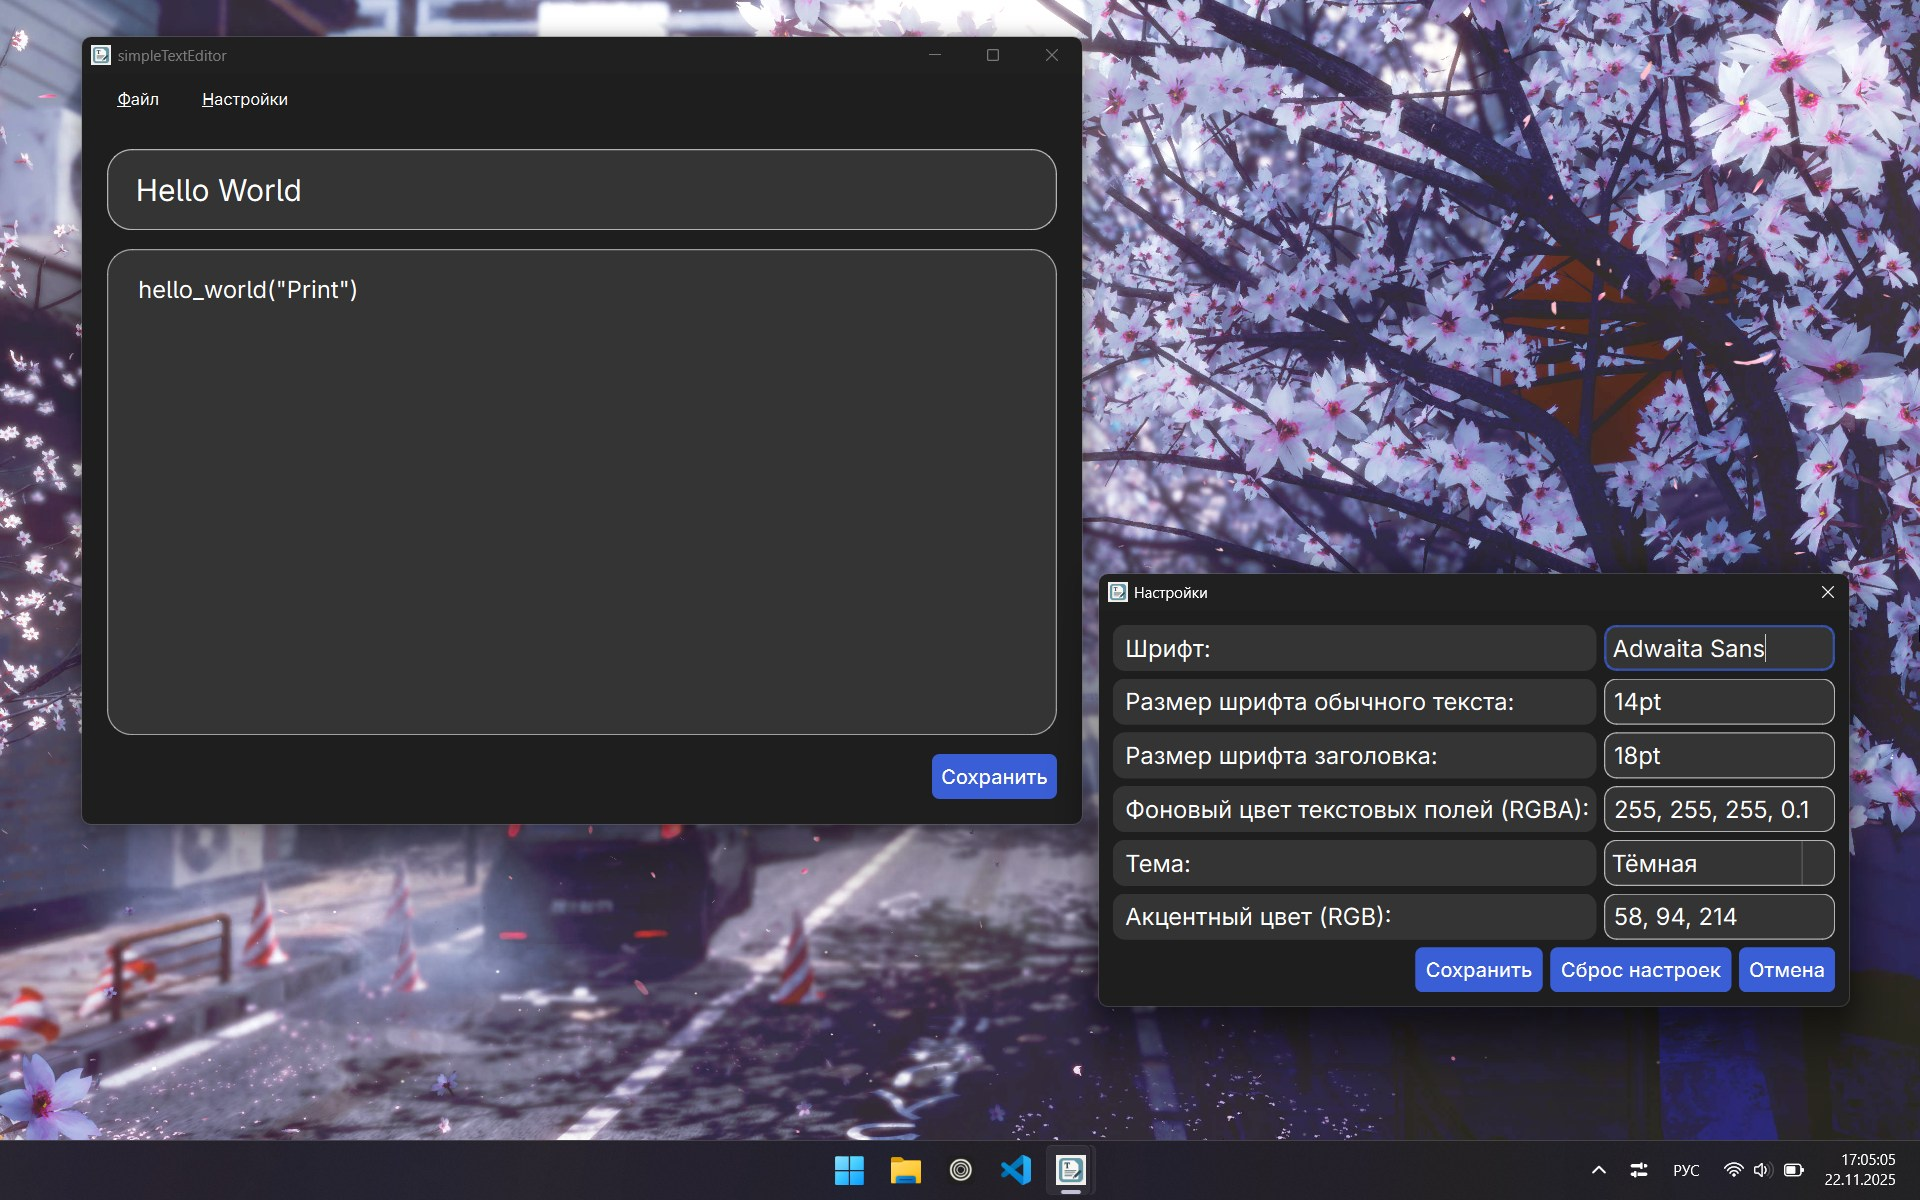
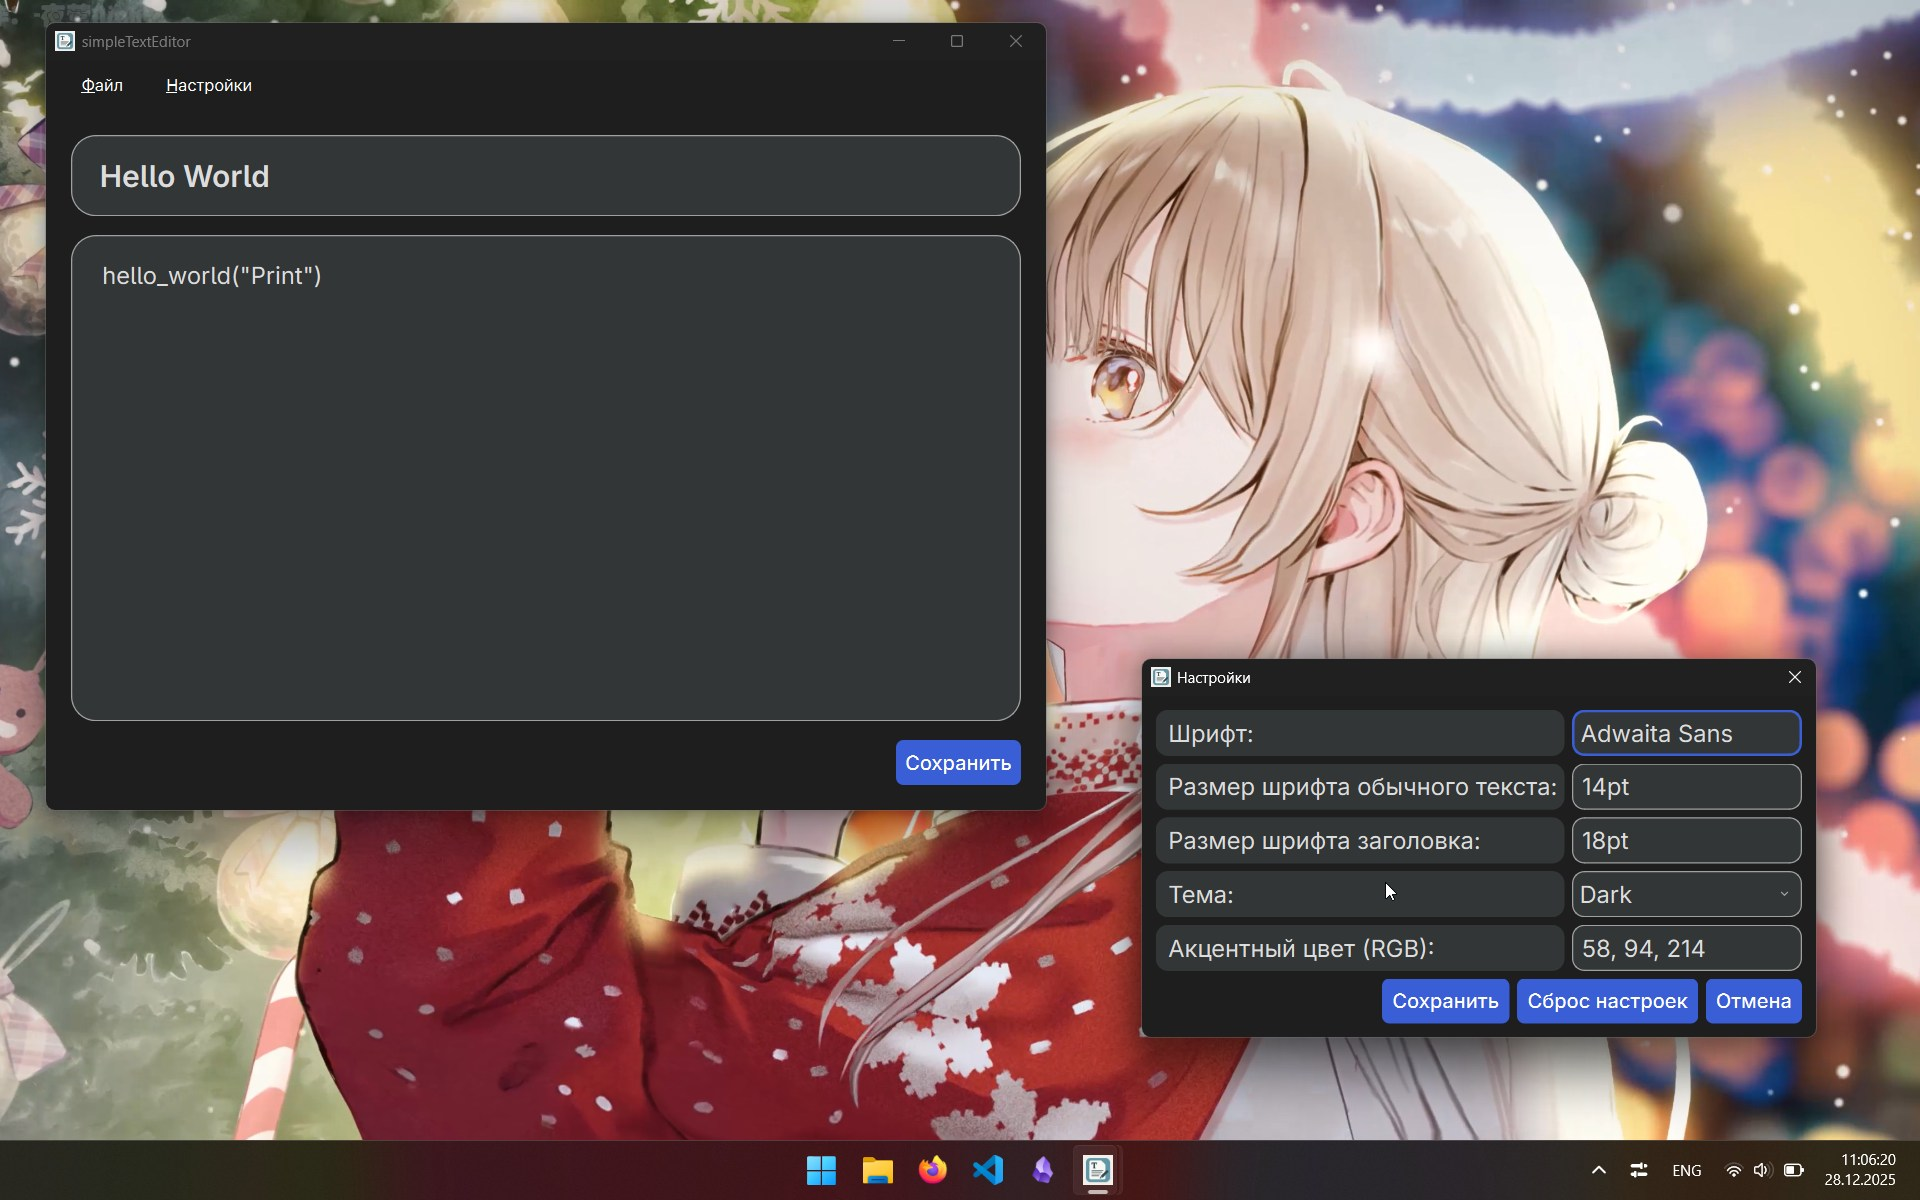
Обновлены скриншоты интерфейса на Windows

diff --git a/README.md b/README.md
@@ -23,14 +23,14 @@
 
 ## 🔍 Превью интерфейса
 
-| Тема          | Windows      | Linux                                         |
-|---------------|--------------|-----------------------------------------------|
-| Dark          |              | ![Dark Preview](screenshots/Linux/Dark.png)   |
-| Dark+         |              | ![Dark+ Preview](screenshots/Linux/Dark+.png) |
-| Gruvbox Dark  |              | ![GruvboxDark Preview](screenshots/Linux/GruvboxDark.png) |
-| Gruvbox Light |              | ![GruvboxLight Preview](screenshots/Linux/GruvboxLight.png) |
-| Light         |              | ![Light](screenshots/Linux/Light.png) |
-| Light+        |              | ![Light+ Preview](screenshots/Linux/Light+.png)        |
+| Тема          | Windows                   | Linux                                         |
+|---------------|---------------------------|-----------------------------------------------|
+| Dark          | ![Dark Preview](screenshots/Windows/Dark.jpg)         | ![Dark Preview](screenshots/Linux/Dark.png)   |
+| Dark+         | ![Dark+ Preview](screenshots/Windows/Dark+.jpg)        | ![Dark+ Preview](screenshots/Linux/Dark+.png) |
+| Gruvbox Dark  | ![GruvboxDark Preview](screenshots\Windows\GruvboxDark.jpg)  | ![GruvboxDark Preview](screenshots/Linux/GruvboxDark.png) |
+| Gruvbox Light | ![GruvboxLight Preview](screenshots\Windows\GruvboxLight.jpg) | ![GruvboxLight Preview](screenshots/Linux/GruvboxLight.png) |
+| Light         | ![Light Preview](screenshots\Windows\Light.jpg) | ![Light](screenshots/Linux/Light.png) |
+| Light+        | ![Light+ Preview](screenshots\Windows\Light+.jpg) | ![Light+ Preview](screenshots/Linux/Light+.png)        |
 ---
 
 ## 🛠 Используемые технологии
